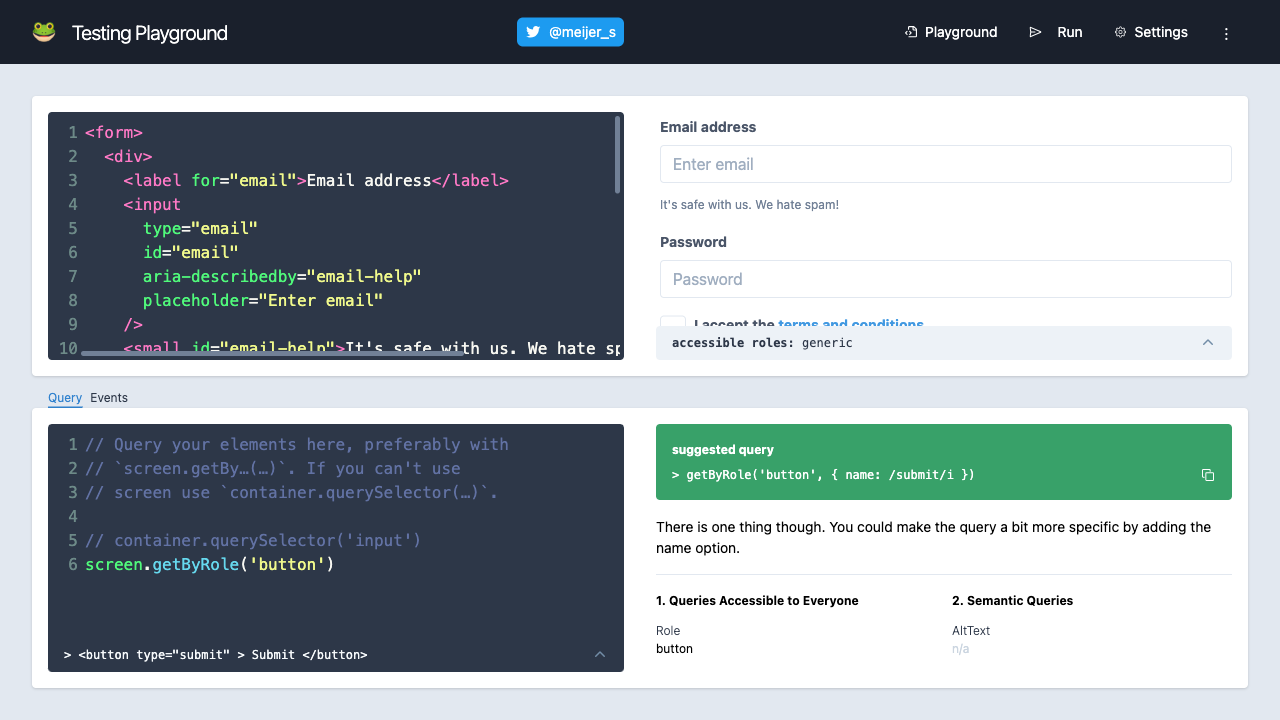
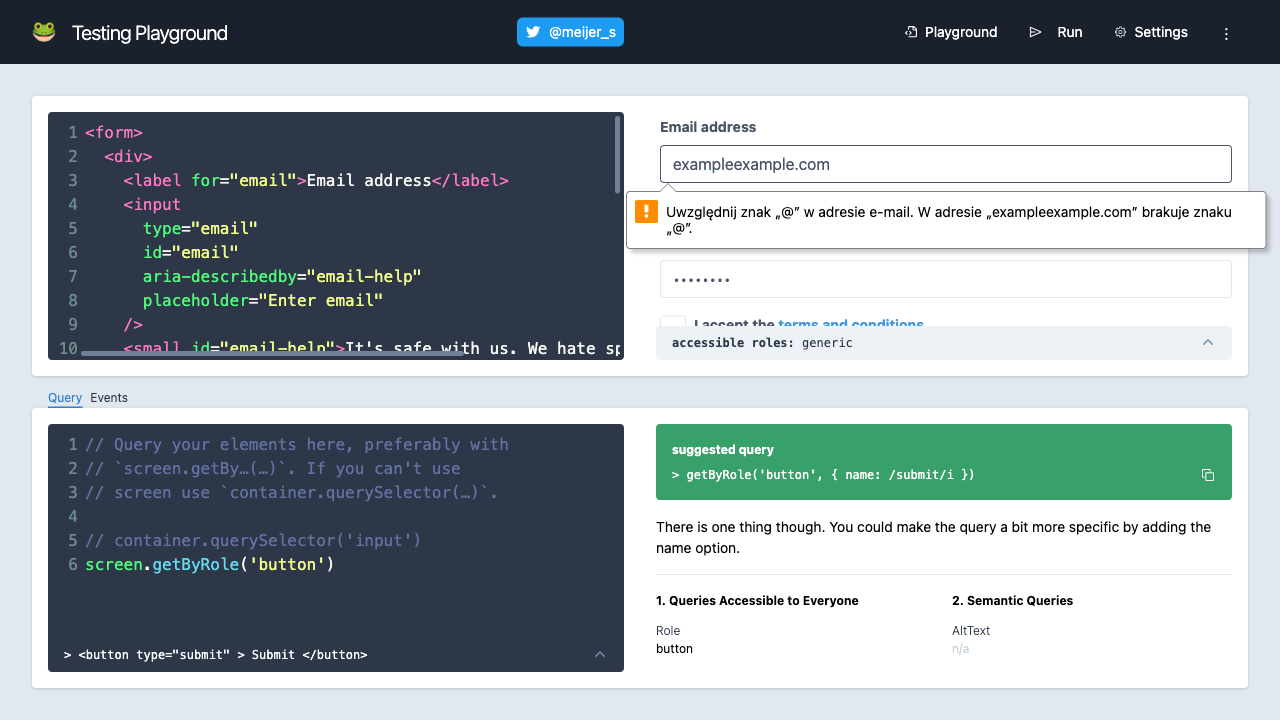
commit error_login_state

Changed region(s): [[0.4688, 0.2444, 1.0, 0.3972], [0.5312, 0.2139, 0.6562, 0.2444]]

diff --git a/tests/8.Blockers and Behavior Tests/negative_login_form.spec.js b/tests/8.Blockers and Behavior Tests/negative_login_form.spec.js
@@ -8,11 +8,10 @@ test('Verify if an error message appears on the page when the user submits incor
   await page.locator('iframe[title="sandbox"]').contentFrame().getByPlaceholder('Password').fill('passwrod');
   await page.locator('iframe[title="sandbox"]').contentFrame().getByPlaceholder('Enter email').press('Enter');
 
-  // Example: Wait for the user to be redirected to the dashboard or homepage
-  await page.waitForURL('/'); // Replace with the URL of the page after successful login
-
-  await page.screenshot({ path: 'logged_in_state.png' });
+//   const errorMessage = page.locator('iframe[title="sandbox"]').contentFrame().locator('text=Please include an "@" in the email address. "exampleexample.com" is missing an "@"');
+//   await expect(errorMessage).toBeVisible();
 
 
+  await page.screenshot({ path: 'error_login_state.png' });
   // TBD
 });
